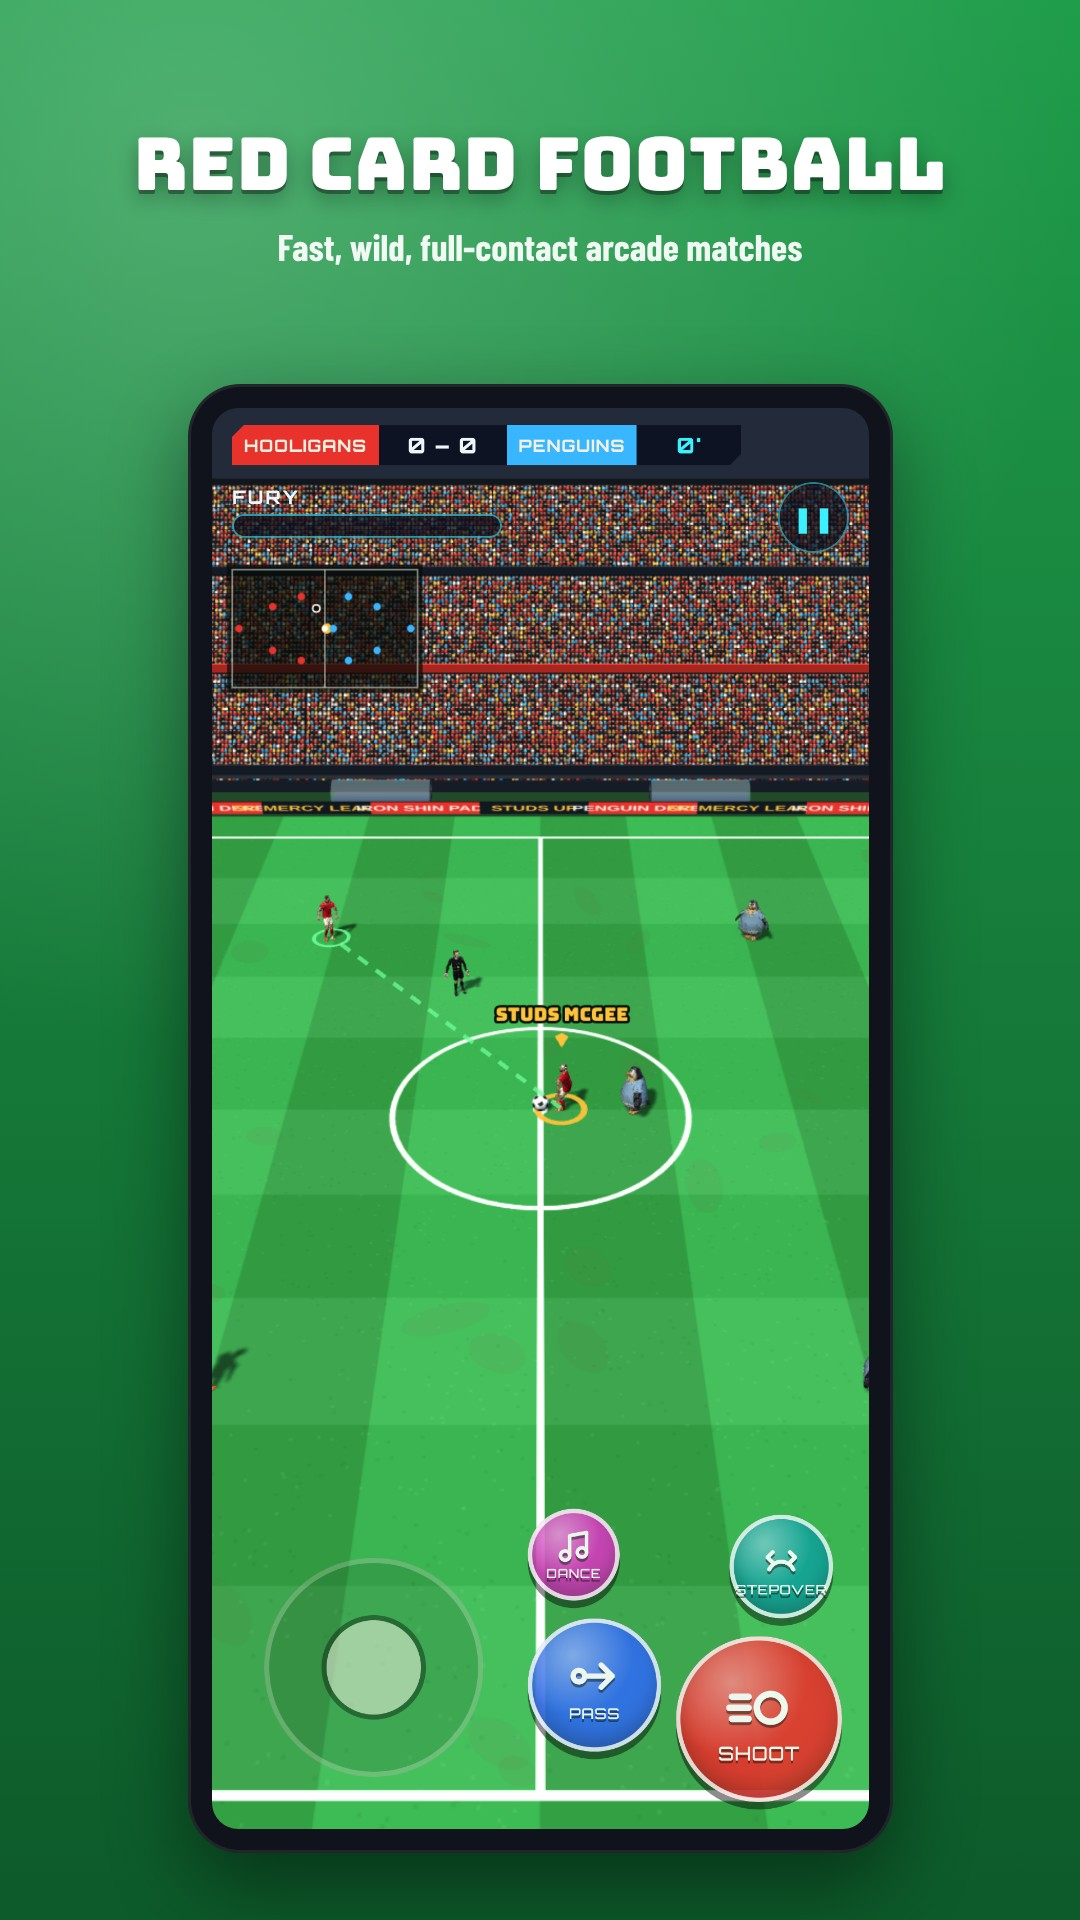
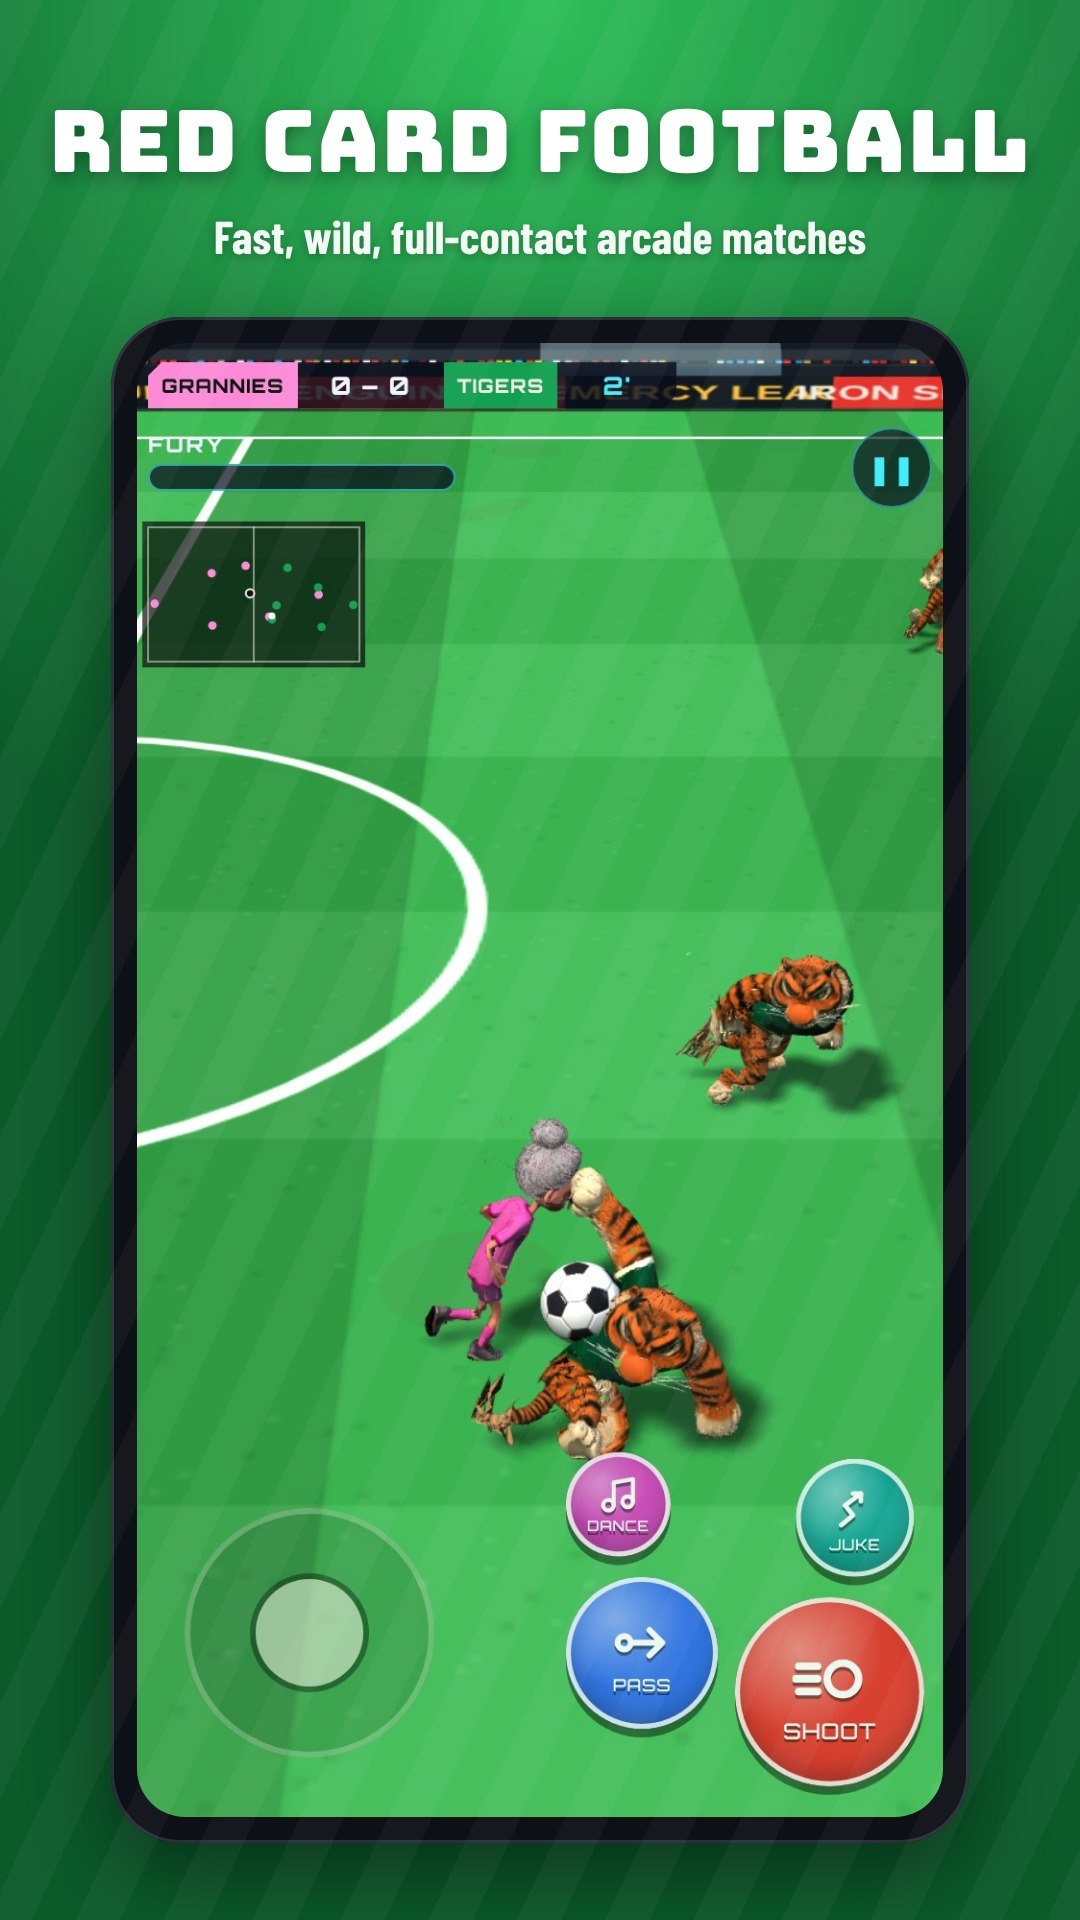
Studs Up: 7 new store screenshots from 0.6.2 [skip ci]
Claude-Session: https://claude.ai/code/session_01XLejpa79EShyQGtQTRADcP

diff --git a/.github/asc-ipad/PLAY-UPLOAD.md b/.github/asc-ipad/PLAY-UPLOAD.md
@@ -19,16 +19,23 @@ play-tablet:
 - https://raw.githubusercontent.com/halfgridgames-ai/Studsup/asc-ipad-screenshots/.github/asc-ipad/play-tablet/mm-4-shop.jpg
 
 ## Studs Up: Red Card Football
+(Updated 17 Nov 2026 evening: 7 new pictures from 0.6.2. Remove ALL old Studs Up screenshots first.)
 play-phone:
 - https://raw.githubusercontent.com/halfgridgames-ai/Studsup/asc-ipad-screenshots/.github/asc-ipad/play-phone/su-1-match.jpg
-- https://raw.githubusercontent.com/halfgridgames-ai/Studsup/asc-ipad-screenshots/.github/asc-ipad/play-phone/su-2-pick.jpg
-- https://raw.githubusercontent.com/halfgridgames-ai/Studsup/asc-ipad-screenshots/.github/asc-ipad/play-phone/su-3-career.jpg
-- https://raw.githubusercontent.com/halfgridgames-ai/Studsup/asc-ipad-screenshots/.github/asc-ipad/play-phone/su-4-menu.jpg
-play-tablet:
+- https://raw.githubusercontent.com/halfgridgames-ai/Studsup/asc-ipad-screenshots/.github/asc-ipad/play-phone/su-2-tackles.jpg
+- https://raw.githubusercontent.com/halfgridgames-ai/Studsup/asc-ipad-screenshots/.github/asc-ipad/play-phone/su-3-pick.jpg
+- https://raw.githubusercontent.com/halfgridgames-ai/Studsup/asc-ipad-screenshots/.github/asc-ipad/play-phone/su-4-collect.jpg
+- https://raw.githubusercontent.com/halfgridgames-ai/Studsup/asc-ipad-screenshots/.github/asc-ipad/play-phone/su-5-career.jpg
+- https://raw.githubusercontent.com/halfgridgames-ai/Studsup/asc-ipad-screenshots/.github/asc-ipad/play-phone/su-6-win.jpg
+- https://raw.githubusercontent.com/halfgridgames-ai/Studsup/asc-ipad-screenshots/.github/asc-ipad/play-phone/su-7-online.jpg
+play-tablet (7-inch and 10-inch):
 - https://raw.githubusercontent.com/halfgridgames-ai/Studsup/asc-ipad-screenshots/.github/asc-ipad/play-tablet/su-1-match.jpg
-- https://raw.githubusercontent.com/halfgridgames-ai/Studsup/asc-ipad-screenshots/.github/asc-ipad/play-tablet/su-2-pick.jpg
-- https://raw.githubusercontent.com/halfgridgames-ai/Studsup/asc-ipad-screenshots/.github/asc-ipad/play-tablet/su-3-career.jpg
-- https://raw.githubusercontent.com/halfgridgames-ai/Studsup/asc-ipad-screenshots/.github/asc-ipad/play-tablet/su-4-menu.jpg
+- https://raw.githubusercontent.com/halfgridgames-ai/Studsup/asc-ipad-screenshots/.github/asc-ipad/play-tablet/su-2-tackles.jpg
+- https://raw.githubusercontent.com/halfgridgames-ai/Studsup/asc-ipad-screenshots/.github/asc-ipad/play-tablet/su-3-pick.jpg
+- https://raw.githubusercontent.com/halfgridgames-ai/Studsup/asc-ipad-screenshots/.github/asc-ipad/play-tablet/su-4-collect.jpg
+- https://raw.githubusercontent.com/halfgridgames-ai/Studsup/asc-ipad-screenshots/.github/asc-ipad/play-tablet/su-5-career.jpg
+- https://raw.githubusercontent.com/halfgridgames-ai/Studsup/asc-ipad-screenshots/.github/asc-ipad/play-tablet/su-6-win.jpg
+- https://raw.githubusercontent.com/halfgridgames-ai/Studsup/asc-ipad-screenshots/.github/asc-ipad/play-tablet/su-7-online.jpg
 
 ## Knot Wizard
 play-phone:
